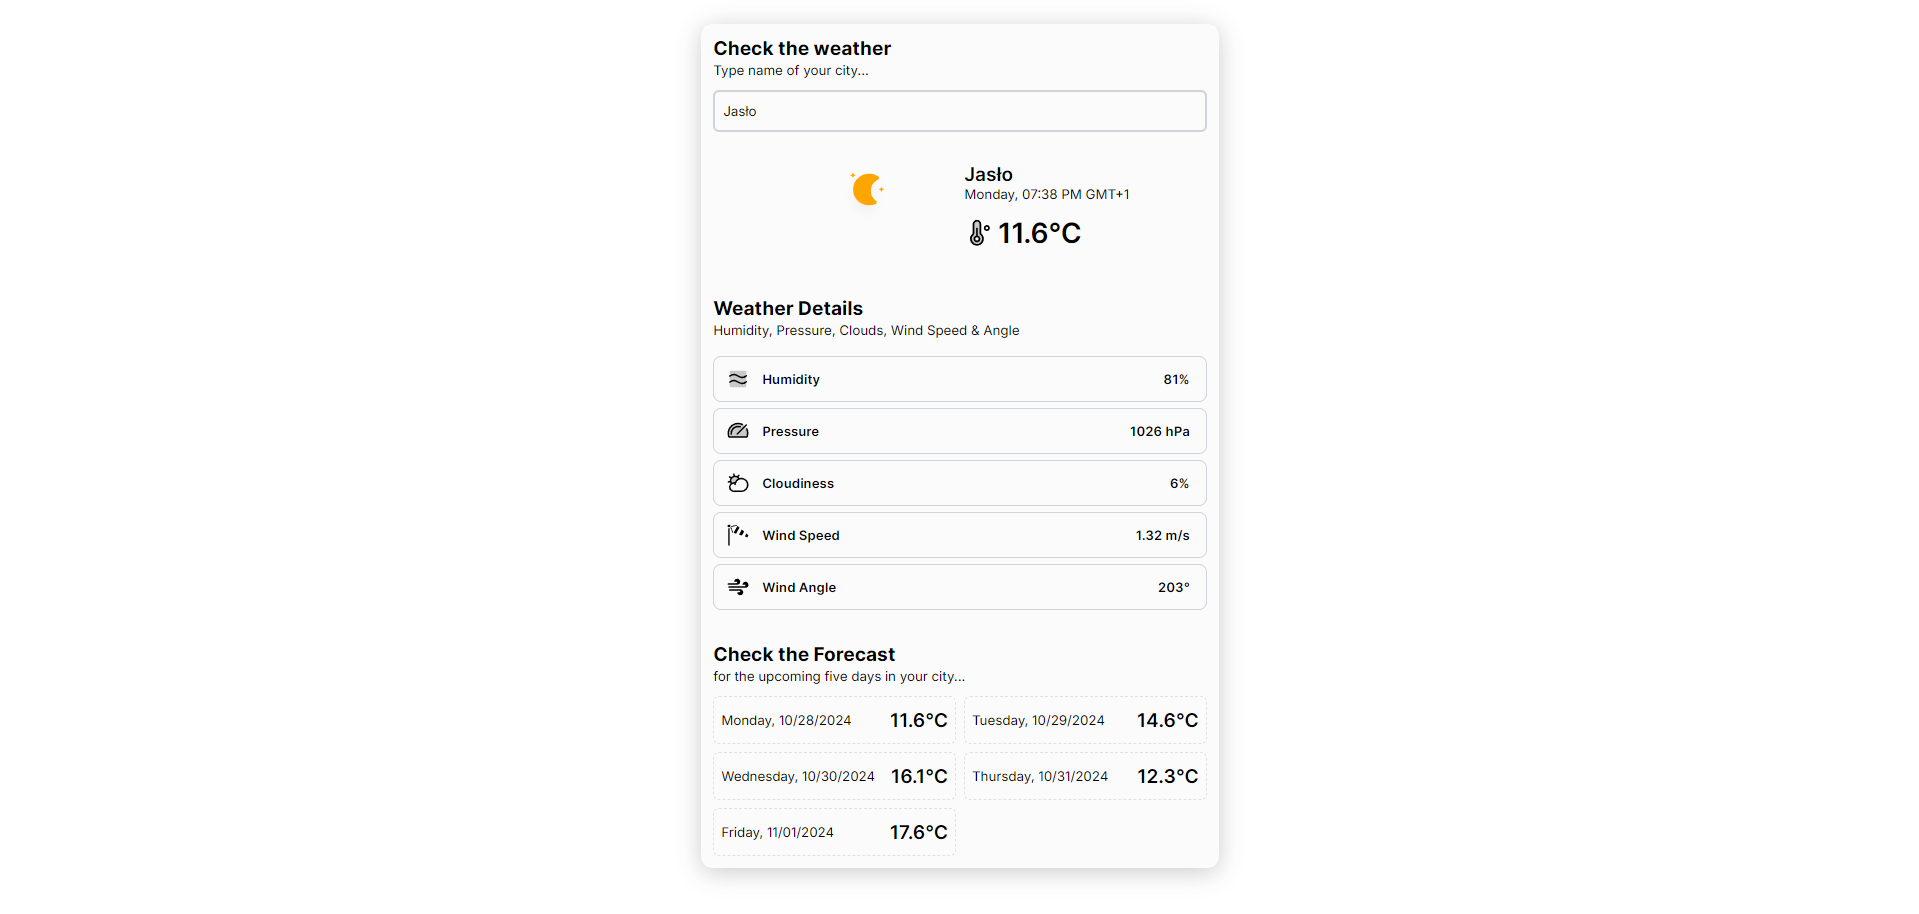
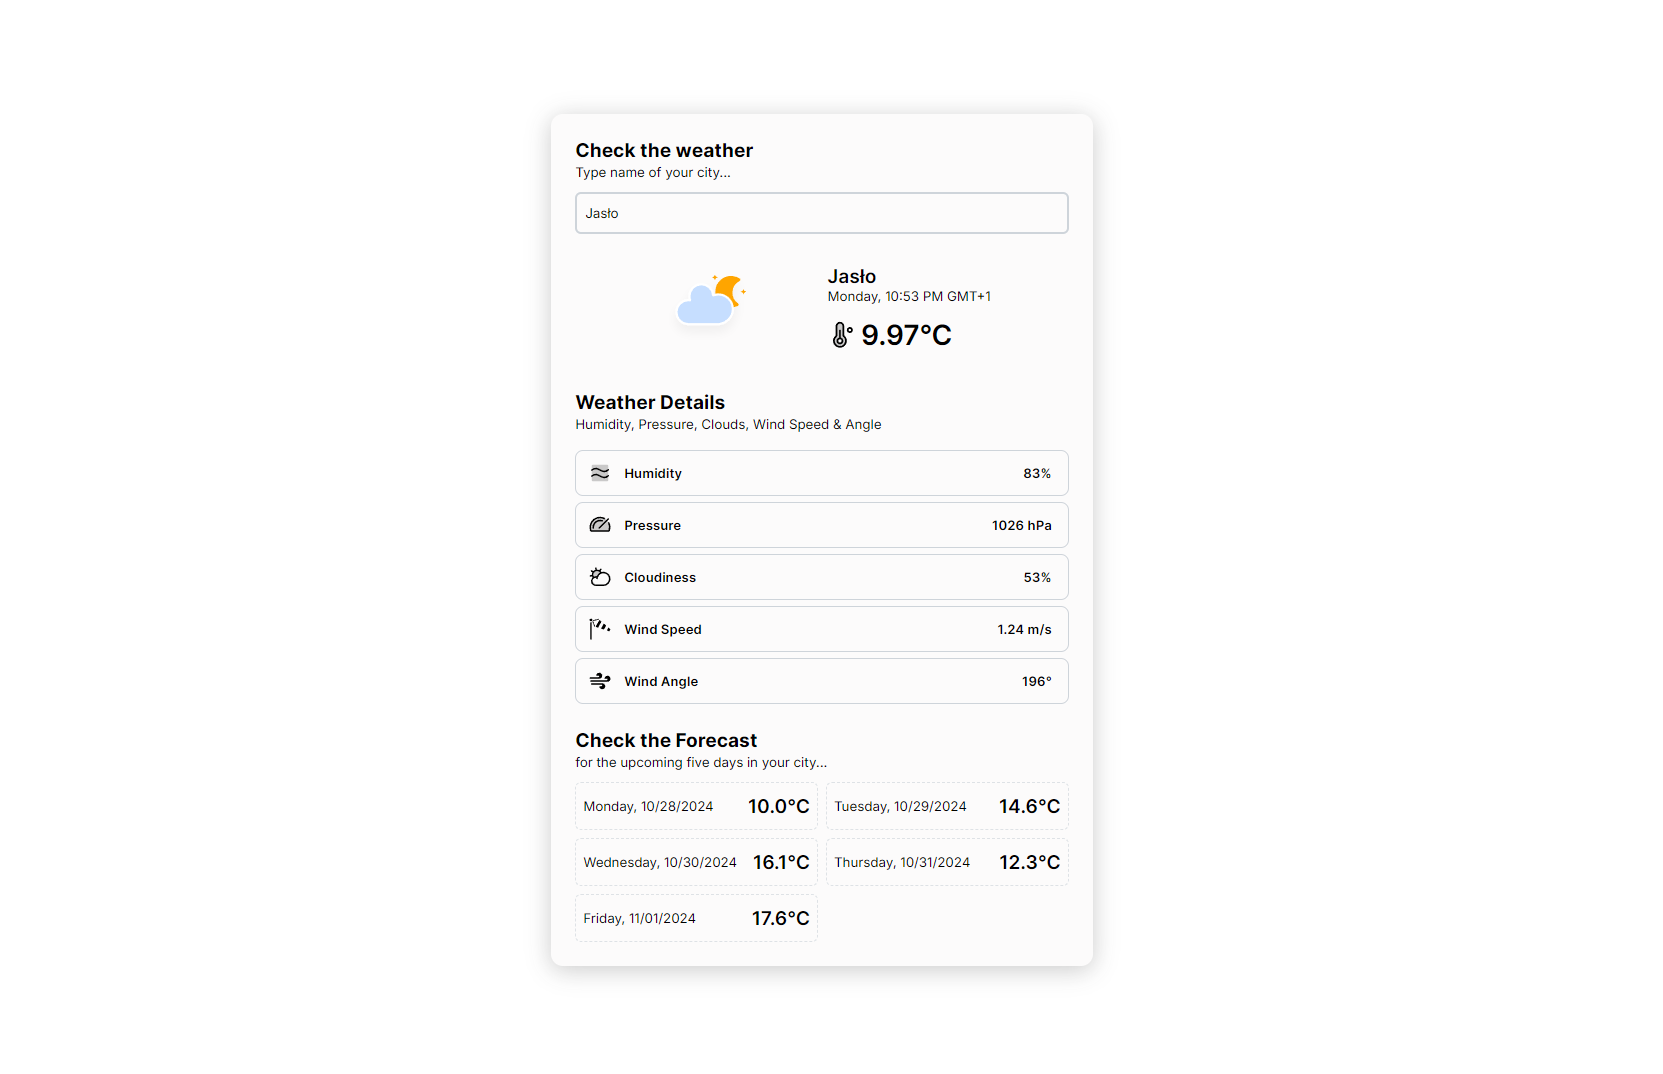
Ajdust position

diff --git a/src/index.scss b/src/index.scss
@@ -15,14 +15,13 @@ html {
   touch-action: manipulation; // Disables double-tap zoom
   overscroll-behavior: none;
   margin: 0;
+  height: 100%;
   padding: 0;
   background-color: #ffffff;
   display: flex;
   align-items: center;
   justify-content: center;
-  margin: 12px 0; // Vertical margin for body
 }
-
 h2,
 p {
   margin: 0;

diff --git a/src/App.scss b/src/App.scss
@@ -3,13 +3,13 @@
 
 .app {
   border-radius: 0.75rem;
-  padding: 12px;
+  padding: 24px;
   width: 312px;
   background-color: $grayscale_100;
   box-shadow: 0 4px 24px rgba(43, 43, 43, 0.25);
   display: flex;
   flex-direction: column;
-  gap: 32px;
+  gap: 24px;
 }
 
 .app_header {
